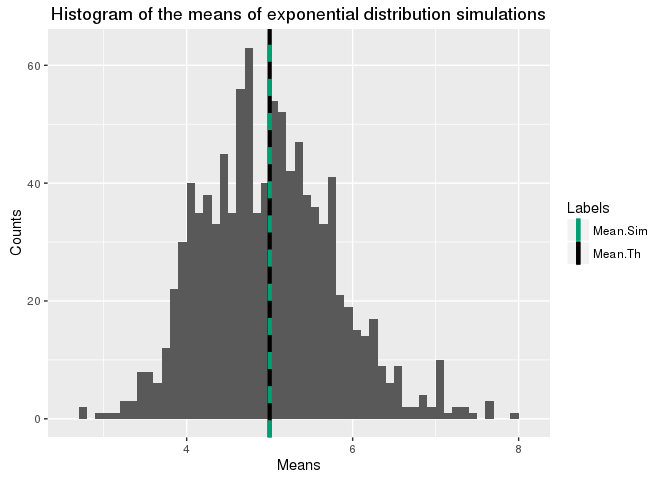
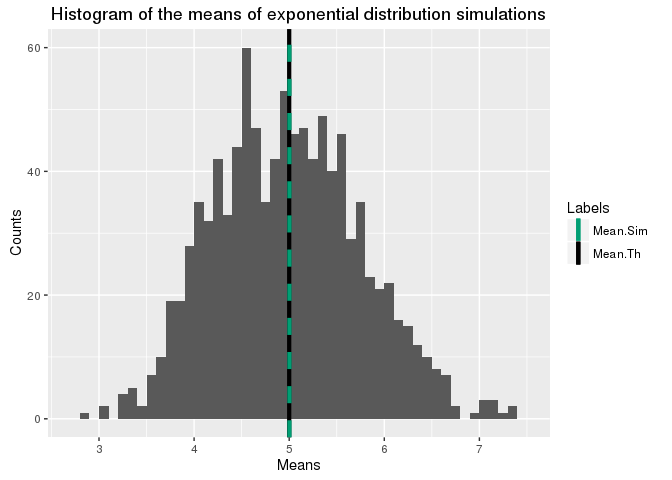
Adding the normal distribution

diff --git a/expo_clt.html b/expo_clt.html
@@ -153,11 +153,25 @@ var_sim &lt;- var(sim_means)</code></pre>
     labs(x = &quot;Means&quot;,
          y = &quot;Counts&quot;,
          title = &quot;Histogram of the means of exponential distribution simulations&quot;)</code></pre>
[2 lines of base64/hex data omitted]
 </div>
 <div id="comparing-the-sample-variance-to-the-theoretical-variance" class="section level1">
 <h1>Comparing the sample variance to the theoretical variance</h1>
 <p>The sample variance is 0.6308244 and the theoretical variance is 0.625. As you can see in this figure, which is identical to the previous one with the expected normal distribution contour, the distribution of the means follows a normal distribution <span class="math inline">\(N(\mu, \frac{\sigma}{\sqrt{n}}) = N(5,0.625)\)</span></p>
+<pre class="r"><code>ggplot() +
+    aes(sim_means) +
+    geom_histogram(binwidth=0.1) +
+    geom_vline(aes(xintercept=mean_theory, colour=&quot;Mean.Th&quot;, linetype = &quot;Mean.Th&quot;),
+               size = 1.5) +
+    geom_vline(aes(xintercept=mean_sim_means, colour=&quot;Mean.Sim&quot;, linetype = &quot;Mean.Sim&quot;),
+               size = 1.5, show.legend=TRUE) +
+    scale_colour_manual(name=&quot;Labels&quot;, values=c(Mean.Sim=&quot;#009E73&quot;,Mean.Th=&quot;black&quot;)) +
+    scale_linetype_manual(name=&quot;Labels&quot;, values=c(Mean.Sim=&quot;dashed&quot;,Mean.Th=&quot;solid&quot;), guide=FALSE)+
+    stat_function(fun = dnorm, size = 2) + 
+    labs(x = &quot;Means&quot;,
+         y = &quot;Counts&quot;,
+         title = &quot;Histogram of the means of exponential distribution simulations&quot;)</code></pre>
[1 lines of base64/hex data omitted]
 </div>
 
 

diff --git a/expo_clt.md b/expo_clt.md
@@ -71,3 +71,21 @@ identical to the previous one with the expected normal distribution
 contour, the distribution of the means follows a normal distribution
 $N(\mu, \frac{\sigma}{\sqrt{n}}) = N(5,0.625)$
 
+
+```r
+ggplot() +
+    aes(sim_means) +
+    geom_histogram(binwidth=0.1) +
+    geom_vline(aes(xintercept=mean_theory, colour="Mean.Th", linetype = "Mean.Th"),
+               size = 1.5) +
+    geom_vline(aes(xintercept=mean_sim_means, colour="Mean.Sim", linetype = "Mean.Sim"),
+               size = 1.5, show.legend=TRUE) +
+    scale_colour_manual(name="Labels", values=c(Mean.Sim="#009E73",Mean.Th="black")) +
+    scale_linetype_manual(name="Labels", values=c(Mean.Sim="dashed",Mean.Th="solid"), guide=FALSE)+
+    stat_function(fun = dnorm, size = 2) + 
+    labs(x = "Means",
+         y = "Counts",
+         title = "Histogram of the means of exponential distribution simulations")
+```
+
+![](expo_clt_files/figure-html/histogram of means with normal-1.png)
